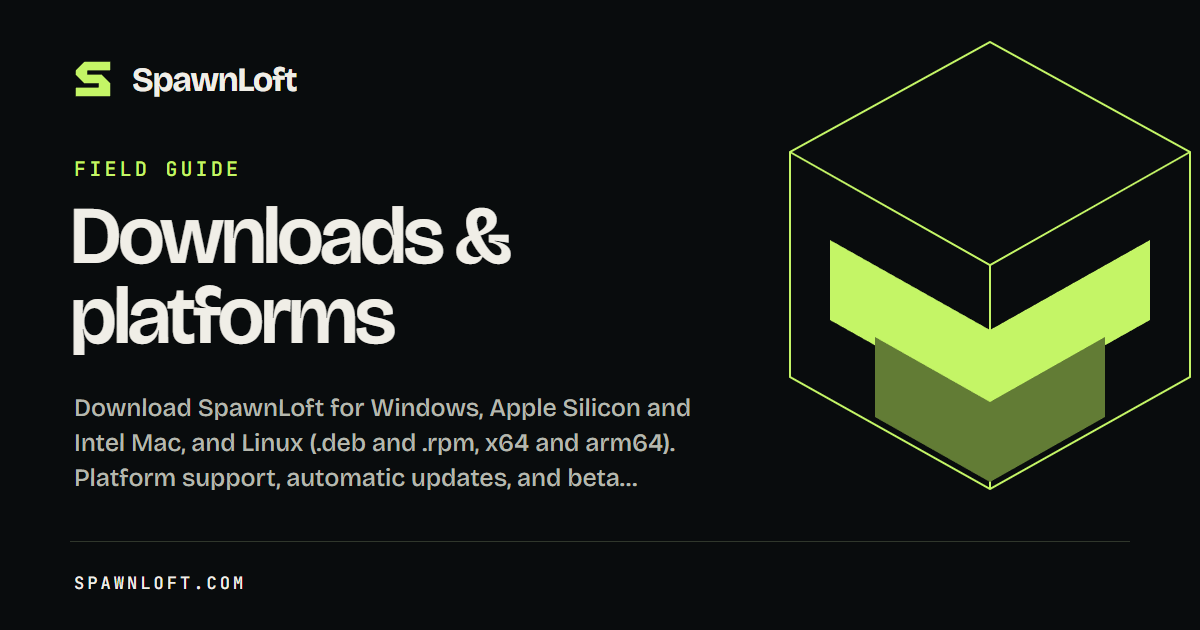
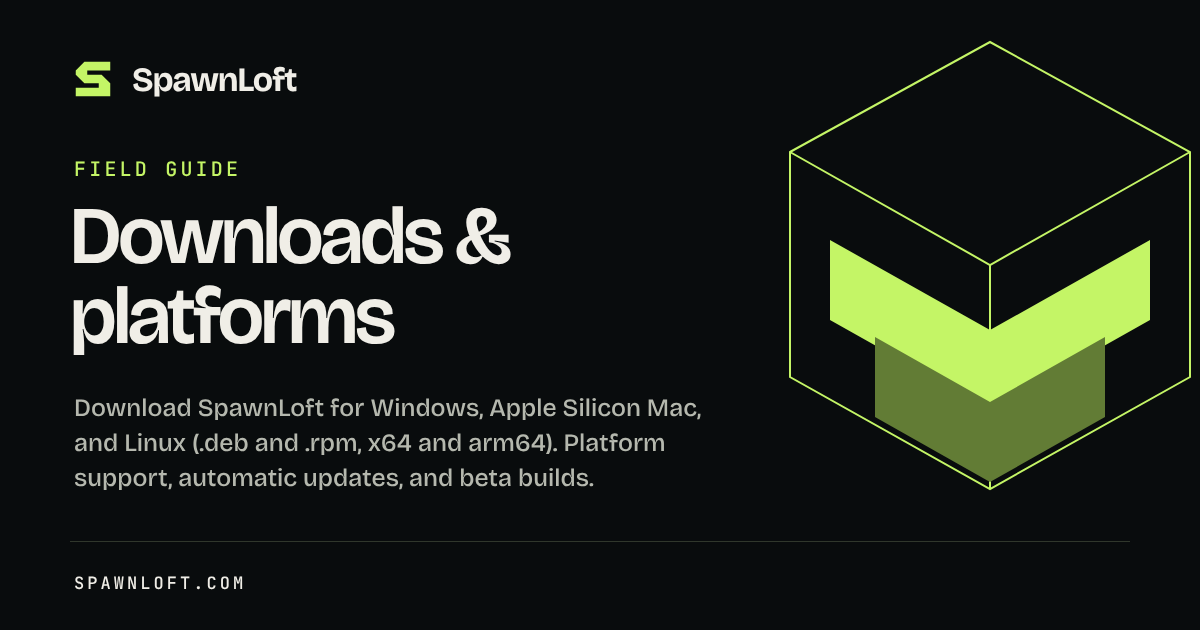
Serve 1.5.0 downloads and drop Intel Mac from the site (#24)
The download component refused any release that was missing one of its
seven installers, and 1.5.0 ships no Intel Mac DMG, so the site kept
offering 1.4.0. It now requires only the three main downloads (Windows,
Apple Silicon, Debian) and lists the other Linux packages when they exist.

The changelog leads with the latest stable release, with permalinks and
"Show more" counting within the archive; Intel Mac is removed from the
download grid, feature copy, FAQ and guides ("Intel Macs stay on 1.4",
linking the 1.4.0 DMG); the build-time proof snapshot is bumped to 1.5.0;
the beta guide's social card is regenerated.

diff --git a/.vitepress/theme/Download.vue b/.vitepress/theme/Download.vue
@@ -3,18 +3,17 @@ import { onMounted, ref } from 'vue'
 
 const props = withDefaults(defineProps<{ size?: 'lg' | 'md'; fine?: boolean }>(), { size: 'md', fine: false })
 const release = 'https://github.com/joogiebear/spawnloft/releases/download/'
-const version = ref('v1.4.0')
+const version = ref('v1.5.0')
 const platforms = ref([
-  { id: 'windows', title: 'Windows', detail: '10 / 11 · x64', file: 'SpawnLoft-Setup-1.4.0.exe', match: /^SpawnLoft-Setup-[\d.]+\.exe$/ },
-  { id: 'arm64', title: 'macOS', detail: 'Apple Silicon', file: 'SpawnLoft-1.4.0-mac-arm64.dmg', match: /^SpawnLoft-[\d.]+-mac-arm64\.dmg$/ },
-  { id: 'x64', title: 'macOS', detail: 'Intel', file: 'SpawnLoft-1.4.0-mac-x64.dmg', match: /^SpawnLoft-[\d.]+-mac-x64\.dmg$/ },
-  { id: 'linux', title: 'Linux', detail: 'Ubuntu / Debian · x64', file: 'SpawnLoft-1.4.0-linux-amd64.deb', match: /^SpawnLoft-[\d.]+-linux-amd64\.deb$/ },
+  { id: 'windows', title: 'Windows', detail: '10 / 11 · x64', file: 'SpawnLoft-Setup-1.5.0.exe', match: /^SpawnLoft-Setup-[\d.]+\.exe$/ },
+  { id: 'arm64', title: 'macOS', detail: 'Apple Silicon', file: 'SpawnLoft-1.5.0-mac-arm64.dmg', match: /^SpawnLoft-[\d.]+-mac-arm64\.dmg$/ },
+  { id: 'linux', title: 'Linux', detail: 'Ubuntu / Debian · x64', file: 'SpawnLoft-1.5.0-linux-amd64.deb', match: /^SpawnLoft-[\d.]+-linux-amd64\.deb$/ },
 ])
 // The other Linux desktop packages, and the command line alone for a server with no screen.
 const linux = ref([
-  { id: 'deb-arm64', label: 'Ubuntu / Debian · arm64', file: 'SpawnLoft-1.4.0-linux-arm64.deb', match: /^SpawnLoft-[\d.]+-linux-arm64\.deb$/ },
-  { id: 'rpm-x64', label: 'Fedora / RHEL · x64', file: 'SpawnLoft-1.4.0-linux-x86_64.rpm', match: /^SpawnLoft-[\d.]+-linux-x86_64\.rpm$/ },
-  { id: 'rpm-arm64', label: 'Fedora / RHEL · arm64', file: 'SpawnLoft-1.4.0-linux-aarch64.rpm', match: /^SpawnLoft-[\d.]+-linux-aarch64\.rpm$/ },
+  { id: 'deb-arm64', label: 'Ubuntu / Debian · arm64', file: 'SpawnLoft-1.5.0-linux-arm64.deb', match: /^SpawnLoft-[\d.]+-linux-arm64\.deb$/ },
+  { id: 'rpm-x64', label: 'Fedora / RHEL · x64', file: 'SpawnLoft-1.5.0-linux-x86_64.rpm', match: /^SpawnLoft-[\d.]+-linux-x86_64\.rpm$/ },
+  { id: 'rpm-arm64', label: 'Fedora / RHEL · arm64', file: 'SpawnLoft-1.5.0-linux-aarch64.rpm', match: /^SpawnLoft-[\d.]+-linux-aarch64\.rpm$/ },
 ])
 
 onMounted(async () => {
@@ -26,13 +25,14 @@ onMounted(async () => {
     if (latest.draft || latest.prerelease || !/^v\d+\.\d+\.\d+$/.test(latest.tag_name)) return
     const find = (item: { match: RegExp }) => latest.assets?.find((asset: { name: string }) => item.match.test(asset.name))
     const assets = platforms.value.map(find)
-    const linuxAssets = linux.value.map(find)
-    // Keep the known complete release if the API is unavailable or a release is incomplete.
-    if ([...assets, ...linuxAssets].some(asset => !asset)) return
+    // The three main downloads must all be there, or the release is still uploading and the
+    // known complete one stays. The other Linux packages are offered only when they exist, so
+    // a release that drops one (as 1.5 dropped the Intel Mac build) is not refused outright.
+    if (assets.some(asset => !asset)) return
     platforms.value = platforms.value.map((platform, index) => ({ ...platform, file: assets[index].name }))
-    linux.value = linux.value.map((item, index) => ({ ...item, file: linuxAssets[index].name }))
+    linux.value = linux.value.flatMap(item => { const asset = find(item); return asset ? [{ ...item, file: asset.name }] : [] })
     version.value = latest.tag_name
-  } catch { /* The verified 1.4 links work without a GitHub API response. */ }
+  } catch { /* The verified 1.5 links work without a GitHub API response. */ }
 })
 </script>
 
@@ -52,9 +52,9 @@ onMounted(async () => {
       </div>
       <p class="more-linux">Other Linux:
         <template v-for="(item, index) in linux" :key="item.id"><a :href="release + version + '/' + item.file">{{ item.label }}</a><span v-if="index < linux.length - 1"> · </span></template>
-        · <a href="/guide/beta#no-screen">command line only, for a server</a>
+        <span v-if="linux.length"> · </span><a href="/guide/beta#no-screen">command line only, for a server</a>
       </p>
-      <span class="fine">Signed Windows and Mac installers · macOS 13+ · Ubuntu 22.04+, Debian 12+, Fedora, RHEL 9 · MIT licence<br>Managed MySQL needs macOS 15+ on Mac and x64 on Linux. Minecraft needs Java.</span>
+      <span class="fine">Signed Windows and Mac installers · macOS 13+ on Apple Silicon · Ubuntu 22.04+, Debian 12+, Fedora, RHEL 9 · MIT licence<br>Managed MySQL needs macOS 15+ on Mac and x64 on Linux. Minecraft needs Java. Intel Macs stay on <a href="https://github.com/joogiebear/spawnloft/releases/download/v1.4.0/SpawnLoft-1.4.0-mac-x64.dmg">1.4</a>, the last version built for them.</span>
       <a class="setup-link" href="/guide/getting-started">First time here? Read the setup guide →</a>
     </template>
   </div>
@@ -67,7 +67,7 @@ onMounted(async () => {
 .btn.lg { padding: 13px 20px; font-size: 15px; }
 .dl-full { display: flex; flex-direction: column; align-items: stretch; gap: 18px; width: 100%; max-width: 760px; margin-inline: auto; }
 .release-label { font: 11px var(--mono); letter-spacing: .08em; }
-.platforms { display: grid; grid-template-columns: repeat(4,minmax(0,1fr)); gap: 10px; }
+.platforms { display: grid; grid-template-columns: repeat(3,minmax(0,1fr)); gap: 10px; }
 .platform { display: flex; flex-direction: column; gap: 12px; text-align: left; padding: 20px 16px; border: 1px solid currentColor; border-radius: 2px; background: transparent; color: inherit; text-decoration: none; transition: background .15s, color .15s; }
 .platform-title { display: flex; justify-content: space-between; align-items: center; gap: 16px; font: 600 18px var(--ui); }
 .platform small { font: 11px/1.6 var(--mono); }
@@ -78,9 +78,10 @@ a.platform:hover { background: #090d0d; color: #c4f566; text-decoration: none; }
 .more-linux a { color: inherit; text-decoration: underline; text-underline-offset: 4px; text-decoration-thickness: 1px; }
 .more-linux a:hover { text-decoration-thickness: 2px; }
 .fine { font: 12px/1.8 var(--ui); opacity: .75; }
+.fine a { color: inherit; text-decoration: underline; text-underline-offset: 3px; }
 .setup-link { font: 12px var(--ui); color: inherit; text-underline-offset: 4px; }
 a:focus-visible { outline: 2px solid currentColor; outline-offset: 5px; }
-@media(max-width:700px) { .platforms { grid-template-columns: repeat(2,minmax(0,1fr)); } }
+@media(max-width:700px) { .platforms { grid-template-columns: 1fr; } }
 @media(max-width:360px) { .platform { padding: 16px 12px; }.platform-title { font-size: 16px; gap: 8px; } }
 @media(prefers-reduced-motion:reduce) { .platform { transition: none; } }
 </style>

diff --git a/.vitepress/theme/Changelog.vue b/.vitepress/theme/Changelog.vue
@@ -10,9 +10,12 @@ type Release = {
 const releases = ref<Release[]>([])
 const state = ref<'loading' | 'ok' | 'failed'>('loading')
 const visibleCount = ref(6)
-const featured = computed(() => releases.value[0])
-const archive = computed(() => releases.value.slice(1, visibleCount.value + 1))
-const remaining = computed(() => Math.max(0, releases.value.length - visibleCount.value - 1))
+// The latest stable release leads. Betas are published far more often and would otherwise
+// always be the headline; they stay in the archive with their pre-release label.
+const featured = computed(() => releases.value.find(release => !release.prerelease) ?? releases.value[0])
+const others = computed(() => releases.value.filter(release => release !== featured.value))
+const archive = computed(() => others.value.slice(0, visibleCount.value))
+const remaining = computed(() => Math.max(0, others.value.length - visibleCount.value))
 let request: AbortController | undefined
 const title = (release: Release) => {
   const match = /^\s*v?[\d.]+(?:-[\w.]+)?\s*[—–-]\s*(.+)$/.exec(release.name || '')
@@ -61,9 +64,10 @@ async function load() {
     state.value = 'ok'
     let hash = window.location.hash.slice(1)
     try { hash = decodeURIComponent(hash) } catch { /* Ignore a malformed link fragment. */ }
-    const linkedIndex = releases.value.findIndex(release => release.tag_name === hash)
-    if (linkedIndex >= 0) {
-      visibleCount.value = Math.max(visibleCount.value, linkedIndex)
+    const linkedIndex = others.value.findIndex(release => release.tag_name === hash)
+    if (linkedIndex >= 0 || hash === featured.value?.tag_name) {
+      // A linked release must be rendered before it can be opened and scrolled to.
+      visibleCount.value = Math.max(visibleCount.value, linkedIndex + 1)
       await nextTick()
       const element = document.getElementById(hash)
       if (element instanceof HTMLDetailsElement) element.open = true
@@ -74,7 +78,7 @@ async function load() {
   } finally { window.clearTimeout(timeout) }
 }
 async function showMore() {
-  const firstNew = releases.value[visibleCount.value + 1]?.tag_name
+  const firstNew = others.value[visibleCount.value]?.tag_name
   visibleCount.value += 6
   await nextTick()
   if (firstNew) document.getElementById(firstNew)?.querySelector('summary')?.focus({ preventScroll: true })
@@ -98,7 +102,7 @@ onBeforeUnmount(() => request?.abort())
     <template v-else>
       <section class="latest-band">
         <article :id="featured.tag_name" class="featured-release journal-wrap">
-          <aside class="release-index"><p class="journal-eyebrow"><span class="release-dot"></span> LATEST PUBLISHED</p><a class="featured-version" :href="'#' + featured.tag_name">{{ featured.tag_name }}</a><time :datetime="featured.published_at">{{ when(featured.published_at) }}</time><span class="release-channel">{{ featured.prerelease ? 'Pre-release' : 'Stable release' }}</span></aside>
+          <aside class="release-index"><p class="journal-eyebrow"><span class="release-dot"></span> {{ featured.prerelease ? 'LATEST PUBLISHED' : 'LATEST STABLE' }}</p><a class="featured-version" :href="'#' + featured.tag_name">{{ featured.tag_name }}</a><time :datetime="featured.published_at">{{ when(featured.published_at) }}</time><span class="release-channel">{{ featured.prerelease ? 'Pre-release' : 'Stable release' }}</span></aside>
           <div class="release-story"><h2>{{ title(featured) }}</h2><div v-if="featured.body?.trim()" class="release-prose" v-html="html(featured)"></div><p v-else class="no-notes">No release notes were included with this version.</p><div class="release-actions"><a v-if="featured.assets?.length" class="journal-button" :href="featured.html_url"><BrandIcon name="download" :size="17" /> Choose your download</a><a class="text-link" :href="featured.html_url">Read on GitHub <BrandIcon name="external" :size="16" /></a></div><p v-if="featured.prerelease" class="channel-note">This is a pre-release. Stable installations are not offered pre-release updates.</p></div>
         </article>
       </section>

diff --git a/.vitepress/theme/Landing.vue b/.vitepress/theme/Landing.vue
@@ -16,12 +16,12 @@ const layers = [
   { icon:'shield', title:'Keep the story going.', text:'Backups, scheduled restarts, and crash recovery. The quiet work behind a world that lasts.', caption:'SERVER CORE / LOOKING AFTER THE DETAILS' },
 ]
 const questions = [
-  { q:'What exactly is SpawnLoft?', a:'A desktop app for running Minecraft Java Edition servers on your own Windows PC or Mac. It brings server controls, plugins, worlds, backups, and more into one place.' },
+  { q:'What exactly is SpawnLoft?', a:'A desktop app for running Minecraft Java Edition servers on your own Windows, Mac or Linux machine. It brings server controls, plugins, worlds, backups, and more into one place.' },
   { q:'Can I bring my existing server?', a:'Yes. Point SpawnLoft at the server folder you already use. It adds the server in place without moving your world or rewriting its files.' },
   { q:'Can my friends join?', a:'Friends on your home network can use your local address. Friends elsewhere need a port forward or a tunnel you choose to set up. SpawnLoft does not automatically open your machine to the internet.', link:'/guide/security', label:'Read the connection and security guide' },
-  { q:'What do I need to get started?', a:'Windows 10 or 11, or macOS 13+, Java, and enough memory for the server you want to run. The app checks for Java and helps you find the right version. Current Minecraft needs Java 25.', link:'/guide/getting-started', label:'See the setup guide' },
+  { q:'What do I need to get started?', a:'Windows 10 or 11, macOS 13+ on Apple Silicon, or a current Linux, plus Java and enough memory for the server you want to run. The app checks for Java and helps you find the right version. Current Minecraft needs Java 25.', link:'/guide/getting-started', label:'See the setup guide' },
   { q:'How is it different from Aternos or Pterodactyl?', a:'Aternos hosts the server for you, and Pterodactyl is a panel for people running servers for others. SpawnLoft runs on your own computer, with no account and no queue. It needs your PC on, and it is honest about where the others are the better choice.', link:'/guide/compare', label:'See the comparison' },
-  { q:'What about Mac and Linux?', a:'Yes. SpawnLoft runs on Windows, Apple Silicon and Intel Mac, and Linux (.deb and .rpm, x64 and arm64), with automatic updates everywhere. There is also a command-line package for Linux servers with no screen.', link:'/guide/beta', label:'Choose your download' },
+  { q:'What about Mac and Linux?', a:'Yes. SpawnLoft runs on Windows, Apple Silicon Macs, and Linux (.deb and .rpm, x64 and arm64), with automatic updates everywhere. Intel Macs stay on 1.4, the last version built for them. There is also a command-line package for Linux servers with no screen.', link:'/guide/beta', label:'Choose your download' },
   { q:'Is the desktop app free?', a:'The current desktop app is a free download and open source under the MIT license. You can get started without creating an account.' },
 ]
 let stop = ()=>{}
@@ -116,7 +116,7 @@ onBeforeUnmount(()=>{ stopPortalTrip(); stop() })
     <main id="main">
       <section ref="hero" class="hero-journey" :style="{'--journey':heroProgress}">
         <div class="hero-screen">
-          <div class="hero-topline"><span><i class="status-dot"></i> MINECRAFT SERVERS. PERSONALLY YOURS.</span><span>BUILT FOR WINDOWS / MADE FOR WORLDS</span></div>
+          <div class="hero-topline"><span><i class="status-dot"></i> MINECRAFT SERVERS. PERSONALLY YOURS.</span><span>WINDOWS / MAC / LINUX</span></div>
           <h1 class="hero-wordmark">spawnloft<span aria-hidden="true">✳</span></h1>
           <div class="hero-halo" aria-hidden="true"></div>
           <div class="hero-world"><PortalScene :progress="heroProgress" /></div>

diff --git a/.vitepress/theme/Features.vue b/.vitepress/theme/Features.vue
@@ -26,7 +26,7 @@ const jobs = [
   {
     icon: 'terminal', label: '04 / WORK ON IT', title: 'Treat it like a project.',
     text: 'For the people writing the plugin rather than only running it. Clone a server into a disposable copy, drive everything from a terminal, or let an AI assistant you choose do the checking.',
-    points: ['Clone to a throwaway server on its own port', 'RCON command and reply, without the blocking shell', 'Structured JSON and CSV out of the command line', 'An MCP server for Claude or any MCP app'],
+    points: ['Clone to a throwaway server on its own port', 'RCON command and reply, without the blocking shell', 'Structured JSON and CSV out of the command line', 'An MCP server for Claude or any MCP app', 'A launcher that joins your own server in one click, in the 1.6 beta'],
     href: '/guide/ai-assistants', link: 'AI assistants and MCP',
   },
 ]
@@ -154,7 +154,7 @@ const limits = [
       <div class="plat-heading"><span class="feat-label">ONE RELEASE, THREE PLATFORMS</span><h2 id="platforms-title">Built and tested on each.</h2></div>
       <div class="plat-grid">
         <article><BrandIcon name="windows" :size="30" /><h3>Windows</h3><span>10 or 11 · x64</span><ul><li><BrandIcon name="check" :size="14" />Signed installer, per user</li><li><BrandIcon name="check" :size="14" />Managed MySQL and Garnet</li><li><BrandIcon name="check" :size="14" />Schedules via Task Scheduler</li></ul></article>
-        <article><BrandIcon name="cube" :size="30" /><h3>macOS</h3><span>13+ · Apple Silicon or Intel</span><ul><li><BrandIcon name="check" :size="14" />Signed, notarized and stapled</li><li><BrandIcon name="check" :size="14" />Managed MySQL needs macOS 15+</li><li><BrandIcon name="check" :size="14" />Schedules via launchd</li></ul></article>
+        <article><BrandIcon name="cube" :size="30" /><h3>macOS</h3><span>13+ · Apple Silicon · Intel stays on 1.4</span><ul><li><BrandIcon name="check" :size="14" />Signed, notarized and stapled</li><li><BrandIcon name="check" :size="14" />Managed MySQL needs macOS 15+</li><li><BrandIcon name="check" :size="14" />Schedules via launchd</li></ul></article>
         <article><BrandIcon name="terminal" :size="30" /><h3>Linux</h3><span>.deb and .rpm · x64 or arm64</span><ul><li><BrandIcon name="check" :size="14" />Hash-verified packages</li><li><BrandIcon name="check" :size="14" />Managed MySQL on x64 only</li><li><BrandIcon name="check" :size="14" />A command-line-only build for servers</li></ul></article>
       </div>
       <a class="plat-link" href="/guide/beta">The full platform matrix <BrandIcon name="arrow" :size="16" /></a>

diff --git a/.vitepress/theme/GetStarted.vue b/.vitepress/theme/GetStarted.vue
@@ -33,9 +33,9 @@ const platforms = [
     href: '/guide/getting-started#smartscreen', link: 'Why that warning appears',
   },
   {
-    id: 'mac', icon: 'cube', title: 'macOS', detail: '13 or later',
-    lines: ['Check Apple menu → About This Mac, then take the Apple Silicon DMG for an M-series chip or the Intel one otherwise.', 'Open the DMG and drag SpawnLoft into Applications. Both builds are Developer ID signed, hardened, Apple-notarized and stapled.'],
-    heads: 'Worth knowing', warn: 'The app runs on macOS 13 and later. Managed MySQL is the one feature that needs macOS 15 or later.',
+    id: 'mac', icon: 'cube', title: 'macOS', detail: '13 or later · Apple Silicon',
+    lines: ['Download the DMG, open it and drag SpawnLoft into Applications. The build is Developer ID signed, hardened, Apple-notarized and stapled.', 'Launch it from Applications and follow the Java check.'],
+    heads: 'Worth knowing', warn: 'The app runs on macOS 13 and later on Apple Silicon. Intel Macs stay on 1.4, the last version built for them. Managed MySQL is the one feature that needs macOS 15 or later.',
     href: '/guide/getting-started#install-on-mac', link: 'Mac setup steps',
   },
   {

diff --git a/.vitepress/theme/proof.data.ts b/.vitepress/theme/proof.data.ts
@@ -7,7 +7,7 @@ import { defineLoader } from 'vitepress'
 export interface Proof { releases: number; commits: number; stars: number; downloads: number; latest: string; latestDate: string; live: boolean }
 
 const REPO = 'https://api.github.com/repos/joogiebear/spawnloft'
-const SNAPSHOT: Proof = { releases: 40, commits: 408, stars: 3, downloads: 94, latest: 'v1.4.0', latestDate: '2026-09-28T14:15:58Z', live: false }
+const SNAPSHOT: Proof = { releases: 41, commits: 408, stars: 3, downloads: 94, latest: 'v1.5.0', latestDate: '2026-10-26T03:01:35Z', live: false }
 const INSTALLER = /\.(exe|dmg|deb|rpm|AppImage)$/
 
 declare const data: Proof

diff --git a/.vitepress/theme/index.ts b/.vitepress/theme/index.ts
@@ -23,7 +23,7 @@ export default {
         'doc-before': () => h(DocsChrome, { placement: 'before' }),
         'doc-after': () => h(DocsChrome, { placement: 'after' }),
         'sidebar-nav-before': () => h(DocsChrome, { placement: 'sidebar' }),
-        'nav-bar-content-after': () => h('a', { href: '/get-started', class: 'docs-download' }, 'Get SpawnLoft ↗'),
+        'nav-bar-content-after': () => h('a', { href: '/get-started', class: 'docs-download' }, 'Get SpawnLoft'),
       })])
   } }),
   enhanceApp({ app }) {

diff --git a/guide/beta.md b/guide/beta.md
@@ -1,11 +1,11 @@
 ---
 title: Downloads & platforms
-description: Download SpawnLoft for Windows, Apple Silicon and Intel Mac, and Linux (.deb and .rpm, x64 and arm64). Platform support, automatic updates, and beta builds.
+description: Download SpawnLoft for Windows, Apple Silicon Mac, and Linux (.deb and .rpm, x64 and arm64). Platform support, automatic updates, and beta builds.
 ---
 
 # Downloads & platforms
 
-SpawnLoft ships for Windows, Apple Silicon and Intel Mac, and Linux on x64 and arm64. Every platform is built from one commit and installed and exercised on its own operating system before a release is published.
+SpawnLoft ships for Windows, Apple Silicon Mac, and Linux on x64 and arm64. Every platform is built from one commit and installed and exercised on its own operating system before a release is published.
 
 <Download fine />
 
@@ -13,10 +13,11 @@ SpawnLoft ships for Windows, Apple Silicon and Intel Mac, and Linux on x64 and a
 | --- | --- | --- |
 | Windows | `SpawnLoft-Setup-<version>.exe` | Windows 10 or 11, x64 |
 | Mac, Apple Silicon | `SpawnLoft-<version>-mac-arm64.dmg` | macOS 13 or later |
-| Mac, Intel | `SpawnLoft-<version>-mac-x64.dmg` | macOS 13 or later |
 | Linux, Debian and Ubuntu | `SpawnLoft-<version>-linux-amd64.deb`, `-linux-arm64.deb` | Ubuntu 22.04+, Debian 12+ |
 | Linux, Fedora, RHEL family, openSUSE | `SpawnLoft-<version>-linux-x86_64.rpm`, `-linux-aarch64.rpm` | |
 | Linux, no desktop | `spawnloft-cli-<version>-linux-<arch>.deb` or `.rpm` | See [No screen](#no-screen) |
+
+Intel Macs stay on 1.4, the last version built for them: [SpawnLoft-1.4.0-mac-x64.dmg](https://github.com/joogiebear/spawnloft/releases/download/v1.4.0/SpawnLoft-1.4.0-mac-x64.dmg). An Intel Mac is not offered 1.5 or later, and its update check says so.
 
 Java is separate on every platform, and which version depends on your Minecraft version. See [Getting started](/guide/getting-started#what-you-need).
 
@@ -26,7 +27,7 @@ Run the `.exe` installer. It installs per user, so no administrator prompt appea
 
 ## Install on Mac
 
-Choose Apple Silicon for an M-series chip or Intel for an Intel processor (**Apple menu → About This Mac**). Open the DMG and drag SpawnLoft into **Applications**. Both builds are Developer ID signed, hardened, Apple-notarized and stapled. Follow the [Mac setup steps](/guide/getting-started#install-on-mac).
+Open the DMG and drag SpawnLoft into **Applications**. The build is for Apple Silicon and is Developer ID signed, hardened, Apple-notarized and stapled. Follow the [Mac setup steps](/guide/getting-started#install-on-mac).
 
 Managed MySQL requires macOS 15 or later; the app itself runs on macOS 13 or later.
 
@@ -73,7 +74,7 @@ Then open `http://127.0.0.1:8770`. `spawnloft-cli` has no updater; install a new
 
 ## Platform support
 
-| Capability | Windows x64 | Mac Apple Silicon and Intel | Linux x64 and arm64 |
+| Capability | Windows x64 | Mac Apple Silicon | Linux x64 and arm64 |
 | --- | --- | --- | --- |
 | Server controls, console, backup and restore | Yes | Yes | Yes |
 | **Classic** and **SpawnLoft** themes | Yes | Yes | Yes |
@@ -106,4 +107,4 @@ Each release's notes are in the [changelog](/changelog). Recent highlights:
 
 ## Reporting a problem
 
-Include the version and source commit from **Settings → About**, your operating system and version, and your processor (x64 or arm64; Apple Silicon or Intel on a Mac). Describe the action, the expected result and the actual result. Never attach database passwords or private plugin configuration values. **Feedback → Something broke** fills most of this in.
+Include the version and source commit from **Settings → About**, your operating system and version, and your processor (x64 or arm64). Describe the action, the expected result and the actual result. Never attach database passwords or private plugin configuration values. **Feedback → Something broke** fills most of this in.

diff --git a/guide/faq.md b/guide/faq.md
@@ -16,7 +16,7 @@ Anyone on your home network can join straight away with your PC's local address 
 
 ## Does it work on Mac or Linux?
 
-Yes. SpawnLoft runs on Windows, Apple Silicon and Intel Macs, and Linux: a `.deb` for Ubuntu and Debian and an `.rpm` for Fedora and the RHEL family, each for x64 and arm64. The Mac app needs macOS 13+; managed MySQL needs macOS 15+ on a Mac and x64 on Linux. Schedules, automatic backups, managed Redis and automatic app updates work everywhere. For a Linux server with no screen there is `spawnloft-cli`, the command line on its own. See [downloads and platform support](/guide/beta).
+Yes. SpawnLoft runs on Windows, Apple Silicon Macs, and Linux: a `.deb` for Ubuntu and Debian and an `.rpm` for Fedora and the RHEL family, each for x64 and arm64. The Mac app needs macOS 13+ on Apple Silicon (Intel Macs stay on 1.4); managed MySQL needs macOS 15+ on a Mac and x64 on Linux. Schedules, automatic backups, managed Redis and automatic app updates work everywhere. For a Linux server with no screen there is `spawnloft-cli`, the command line on its own. See [downloads and platform support](/guide/beta).
 
 ## Can I match the app to the website?
 

diff --git a/guide/getting-started.md b/guide/getting-started.md
@@ -44,7 +44,7 @@ The installer is signed, but Windows SmartScreen judges by reputation rather tha
 
 ## Install on Mac {#install-on-mac}
 
-Choose the DMG for your chip: check **Apple menu → About This Mac**, then pick Apple Silicon for an M-series chip or Intel for an Intel processor. Open the DMG, drag SpawnLoft into **Applications**, launch it, and follow the Java check. Both installers are Developer ID signed and Apple-notarized. Your application data lives outside the app bundle, and the app updates itself after installation.
+Open the DMG, drag SpawnLoft into **Applications**, launch it, and follow the Java check. The installer is for Apple Silicon and is Developer ID signed and Apple-notarized. Intel Macs stay on 1.4, the last version built for them. Your application data lives outside the app bundle, and the app updates itself after installation.
 
 ## Install on Linux
 

diff --git a/guide/databases.md b/guide/databases.md
@@ -21,7 +21,7 @@ the server its own database and user credentials.
 | Platform | Managed engine |
 | --- | --- |
 | Windows | MySQL 8.4 LTS; Redis-compatible Garnet |
-| macOS 15+ | MySQL 8.4 LTS and Redis-compatible Garnet, on Apple Silicon and Intel |
+| macOS 15+ | MySQL 8.4 LTS and Redis-compatible Garnet |
 | macOS 13–14 | Redis-compatible Garnet, or an external SQL database; managed MySQL requires macOS 15+ |
 | Linux x64 | MySQL 8.4 LTS and Redis-compatible Garnet; the libraries MySQL needs are fetched from your distribution without sudo |
 | Linux arm64 | Redis-compatible Garnet, or an external SQL database; Oracle publishes no small arm64 MySQL build |

diff --git a/guide/desktop.md b/guide/desktop.md
@@ -7,7 +7,7 @@ description: "What the SpawnLoft desktop app adds around the panel: a native fol
 A window around the [panel](/guide/panel), plus a native folder picker, first-run setup and
 update checking.
 
-SpawnLoft runs on Windows, Apple Silicon and Intel Mac, and Linux. See [downloads and platform support](/guide/beta).
+SpawnLoft runs on Windows, Apple Silicon Mac, and Linux. See [downloads and platform support](/guide/beta).
 
 ## Appearance
 
